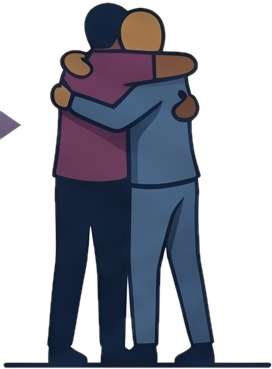
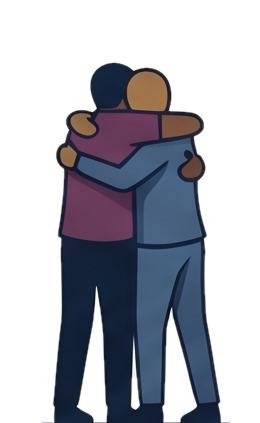
Implement structural updates and optimizations across multiple modules

diff --git a/src/components/Columns.jsx b/src/components/Columns.jsx
@@ -1,13 +1,13 @@
 export default function Columns() {
     const columns = [
         { name: "Praise", movement: "Gathering", message: "The Awe", color: "border-t-blue-300", imagePath: "/quadrants/images/praise_pro.png" },
-        { name: "Faith", movement: "Word", message: "The Story of God", color: "border-t-blue-500", imagePath: "/quadrants/images/word.png" },
+        { name: "Faith", movement: "Word", message: "The Story of God", color: "border-t-blue-500", imagePath: "/quadrants/images/faith_pro.png" },
         { name: "Love", movement: "Table", message: "The Gospel & Sacrifice", color: "border-t-blue-700", imagePath: "/quadrants/images/love_pro.png" },
         { name: "Hope", movement: "Sending", message: "The Confession", color: "border-t-blue-900", imagePath: "/quadrants/images/hope_pro.png" },
     ];
 
     return (
-        <div className="flex gap-6 p-8 bg-slate-50 min-h-screen">
+        <div className="flex gap-6 p-8 bg-slate-50 ">
             <div className="w-full grid grid-cols-1 md:grid-cols-2 lg:grid-cols-4 gap-6">
                 {columns.map((q) => (
                     <div key={q.name} className={`bg-white rounded-2xl shadow-sm border-t-4 ${q.color} flex flex-col min-h-[500px]`}>
@@ -33,7 +33,7 @@ export default function Columns() {
                             <img
                                 src={q.imagePath}
                                 alt={`${q.movement} illustration`}
-                                className="w-full h-32 object-contain object-bottom transition-transform duration-500"
+                                className="w-full h-full object-contain object-bottom"
                             />
                         </div>
                     </div>